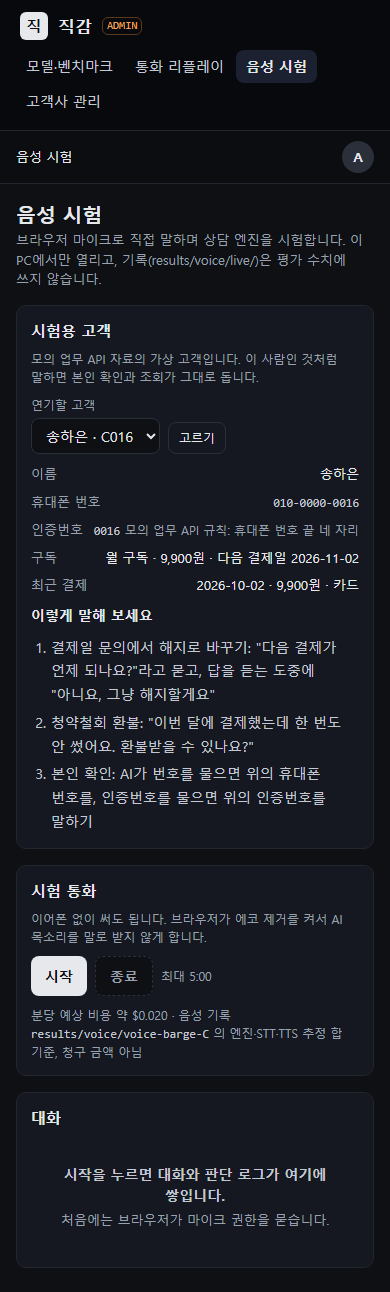
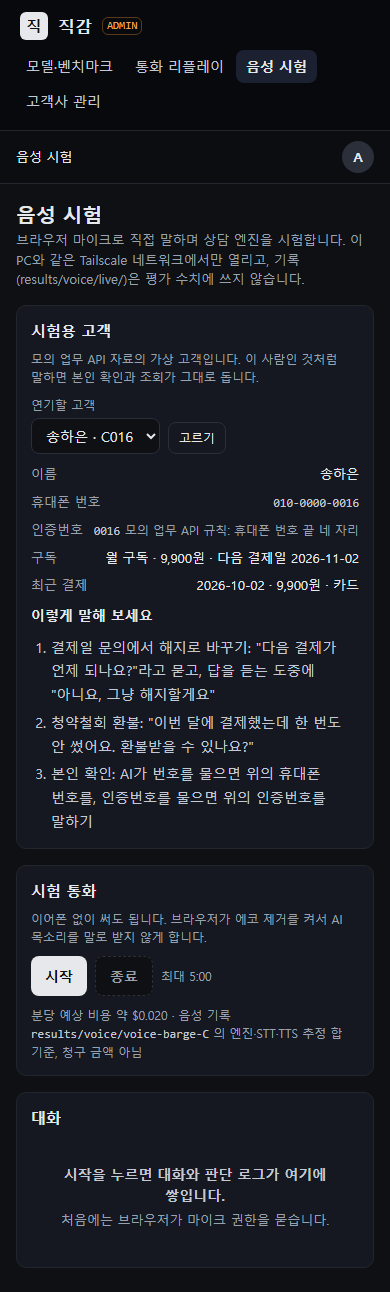
Open the voice test from other devices on the same Tailscale network
- The voice test now accepts this PC and the Tailscale ranges (100.64.0.0/10, fd7a:115c:a1e0::/48) instead of loopback only; behind `tailscale serve` the server checks the real client address the local proxy forwards, and other addresses (LAN, public) still get 403; same-origin POSTs only, as before
- Other PCs open https://<this PC's Tailscale name>/admin/voice-test after `tailscale serve --bg 8100` on this PC (browsers allow the microphone only over HTTPS or on localhost, so plain HTTP on 0.0.0.0 cannot use the mic); docs/voice.md §8 and the README demo note say how
- Checked through the Tailscale HTTPS address from a browser on the same PC (fake microphone): the call connected, reply 4.04 s, recording kept; the origin check passes behind the proxy and rejects other origins; aiortc offers the Tailscale address as an ICE candidate. A call from another PC is not yet checked
- 795 tests and the design harness pass

Changed region(s): [[0.0615, 0.1858, 0.7692, 0.2477], [0.8, 0.1858, 0.8923, 0.2167]]

diff --git a/jikgam/web/app.py b/jikgam/web/app.py
@@ -20,10 +20,11 @@
 - POST /admin/retrieval             검색 val 실행의 비용 확인과 시작
 - GET  /admin/replay[/{run}/{session}][?at=]  통화 리플레이, /admin/replay/{run}/{session}/audio 녹음
 - GET  /admin/tenants[?org=]        고객사 관리
-- GET  /admin/voice-test[?call=&customer=]  음성 시험(이 PC에서만). POST /admin/voice-test/offer(브라우저 WebRTC 제안 → 응답),
+- GET  /admin/voice-test[?call=&customer=]  음성 시험(이 PC와 같은 Tailscale 네트워크에서만). POST /admin/voice-test/offer(브라우저 WebRTC 제안 → 응답),
   POST /admin/voice-test/stop(종료)
 """
 
+import ipaddress
 import time
 from dataclasses import dataclass, field
 from urllib.parse import quote, urlsplit
@@ -262,11 +263,18 @@ def create_app(cfg: WebConfig) -> Starlette:
             return not_found()
         return FileResponse(rec["path"], media_type="audio/wav")
 
+    voice_nets = [ipaddress.ip_network(n) for n in settings.VOICE_TEST_ALLOWED_NETS]
+
     def local_only(request: Request) -> Response | None:
-        """음성 시험은 이 PC에서만 연다. 쓰기 요청은 같은 출처에서 온 것만 받는다(다른 사이트가 통화를 열지 못하게)."""
-        host = request.client.host if request.client else ""
-        if host not in settings.VOICE_TEST_LOCAL_HOSTS:
-            return PlainTextResponse("음성 시험은 이 PC(127.0.0.1)에서만 열 수 있습니다.", status_code=403)
+        """음성 시험은 이 PC와 같은 Tailscale 네트워크의 기기에서만 연다. tailscale serve를 거치면 웹 서버가 실제 접속 기기
+        주소(X-Forwarded-For, 이 PC의 프록시가 보낸 것만 믿는다)를 본다. 쓰기 요청은 같은 출처에서 온 것만 받는다(다른 사이트가
+        통화를 열지 못하게)."""
+        try:
+            addr = ipaddress.ip_address(request.client.host if request.client else "")
+        except ValueError:
+            addr = None
+        if addr is None or not any(addr in n for n in voice_nets):
+            return PlainTextResponse("음성 시험은 이 PC와 같은 Tailscale 네트워크의 기기에서만 열 수 있습니다.", status_code=403)
         origin = request.headers.get("origin")
         if request.method == "POST" and origin and urlsplit(origin).netloc != request.url.netloc:
             return PlainTextResponse("다른 출처의 요청은 받지 않습니다.", status_code=403)

diff --git a/jikgam/web/admin/voicetest.py b/jikgam/web/admin/voicetest.py
@@ -2,7 +2,7 @@
 
 한 화면에 시작·종료, 대화(고객의 미확정 자막이 말하는 도중 바뀌고, AI 답은 재생에 맞춰 글자가 드러난다), 판단 로그(대화 버전,
 판별 결과와 지연, 근거, 업무 API, 끼어들기, 폐기된 답과 사유), 시험자가 연기할 가상 고객 정보가 있다. 통화 중에는 세션 로그를
-읽어 갱신한다. 이 PC(127.0.0.1)에서만 연다. 기록은 평가 수치에 쓰지 않는다.
+읽어 갱신한다. 이 PC와 같은 Tailscale 네트워크의 기기에서만 연다. 기록은 평가 수치에 쓰지 않는다.
 """
 
 from typing import Any
@@ -238,7 +238,7 @@ def page(ctx: Ctx, tests: vt.VoiceTests) -> Any:
     else:
         parts.append(ui.card(ui.empty("시작을 누르면 대화와 판단 로그가 여기에 쌓입니다.",
                                       "처음에는 브라우저가 마이크 권한을 묻습니다."), title="대화", label="대화"))
-    main = ui.stack(ui.page_header("음성 시험", "브라우저 마이크로 직접 말하며 상담 엔진을 시험합니다. 이 PC에서만 열리고, "
+    main = ui.stack(ui.page_header("음성 시험", "브라우저 마이크로 직접 말하며 상담 엔진을 시험합니다. 이 PC와 같은 Tailscale 네트워크에서만 열리고, "
                                                "기록(results/voice/live/)은 평가 수치에 쓰지 않습니다."),
                     ui.split(ui.stack(*parts, gap="lg"), side), gap="lg")
     return shell(ctx, "voice-test", "음성 시험", main)

diff --git a/tests/test_web_voicetest.py b/tests/test_web_voicetest.py
@@ -29,10 +29,12 @@ def client(host="127.0.0.1"):
     return TestClient(create_app(WebConfig(root=ROOT, accounts={"a": A, "t": T}, clock=lambda: 0.0)), client=(host, 50000))
 
 
-def test_only_admins_on_this_pc_can_open_it(monkeypatch):
+def test_only_admins_on_this_pc_or_the_tailnet_can_open_it(monkeypatch):
     monkeypatch.setattr(vt, "bizapi_up", lambda url: False)
     assert client().get("/admin/voice-test", headers=hdr(A)).status_code == 200
-    assert client("10.0.0.7").get("/admin/voice-test", headers=hdr(A)).status_code == 403
+    assert client("100.101.7.9").get("/admin/voice-test", headers=hdr(A)).status_code == 200  # Tailscale 기기
+    for host in ("10.0.0.7", "192.168.0.12", "testclient"):
+        assert client(host).get("/admin/voice-test", headers=hdr(A)).status_code == 403, host
     assert client().get("/admin/voice-test", headers=hdr(T)).status_code == 403
     r = client().post("/admin/voice-test/offer", headers={**hdr(A), "origin": "http://evil.example"}, json={"sdp": "x", "type": "offer"})
     assert r.status_code == 403

diff --git a/jikgam/web/settings.py b/jikgam/web/settings.py
@@ -59,7 +59,8 @@ KNOWLEDGE_STAGE_COUNT = 4
 RETRIEVAL_PIPELINE = "full · snow+RRF · Jev 8"
 
 # 관리 콘솔 음성 시험(/admin/voice-test). 이 PC에서만 연다. 한 번에 한 통화, 최대 시간(초)이 지나면 끝낸다
-VOICE_TEST_LOCAL_HOSTS = ("127.0.0.1", "::1", "localhost")
+# 음성 시험을 여는 접속 주소: 이 PC와 같은 Tailscale 네트워크(tailscale serve로 HTTPS를 붙여 연다, docs/voice.md §8)
+VOICE_TEST_ALLOWED_NETS = ("127.0.0.0/8", "::1/128", "100.64.0.0/10", "fd7a:115c:a1e0::/48")
 VOICE_TEST_MAX_S = 300
 VOICE_TEST_POLICY = "C"          # 엔진 + 조직 기본 판별 백엔드(음성 재생 실행기의 기본과 같다)
 VOICE_TEST_CUSTOMER = "C001"     # 처음 보여 줄 시험용 가상 고객(모의 업무 API 자료)

diff --git a/docs/voice.md b/docs/voice.md
@@ -135,7 +135,8 @@ uv run python -m jikgam.web             # 다른 터미널에서. http://127.0.0
 
 - **전송:** Pipecat 1.12.0의 SmallWebRTC(`pipecat.transports.smallwebrtc`, aiortc). aiortc는 기본 의존성 묶음 `voice-web`에 있다. 브라우저는 에코 제거·잡음 억제·자동 음량을 켠 마이크를 보내고, AI 음성은 같은 연결로 받아 브라우저 스피커로 재생한다(`static/console.js`의 `data-voice-test`).
 - **한도:** 한 번에 한 통화, 최대 5분(`settings.VOICE_TEST_MAX_S`). 종료 버튼, 브라우저 연결 끊김, 한도 중 먼저 오는 것으로 끝난다. 시작 전 화면에 분당 예상 비용(정책 C 음성 기록 `results/voice/voice-barge-C`의 엔진·STT·TTS 추정 합 ÷ STT 연결 시간)을 보인다. 청구 금액은 아니다.
-- **접근:** 이 PC(127.0.0.1)에서 온 요청만 받고, 쓰기 요청은 같은 출처만 받는다. API 키는 `.env`에서만 읽는다.
+- **접근:** 이 PC와 같은 Tailscale 네트워크(`100.64.0.0/10`, `fd7a:115c:a1e0::/48`)의 기기에서 온 요청만 받고(`settings.VOICE_TEST_ALLOWED_NETS`), 쓰기 요청은 같은 출처만 받는다. API 키는 `.env`에서만 읽는다.
+- **다른 PC에서 열기:** 웹 서버는 127.0.0.1에 둔 채 이 PC에서 `tailscale serve --bg 8100`을 실행하고, 같은 tailnet의 PC에서 `https://<이 PC의 Tailscale 이름>/admin/voice-test`를 연다. 브라우저는 HTTPS나 localhost에서만 마이크를 허용하므로 `--host 0.0.0.0`으로 HTTP를 열어서는 마이크를 쓸 수 없다. tailnet에서 Serve와 HTTPS 인증서를 먼저 켜야 한다(인증서를 켜면 PC 이름이 공개 인증서 기록에 남는다). 웹 서버는 이 PC의 프록시가 보낸 실제 접속 주소(`X-Forwarded-For`)로 위 대역을 검사한다. 끄려면 `tailscale serve --https=443 off`.
 - **기록:** `results/voice/live/<시험 id>/`에 세션 로그(`.jsonl`, 기존 형식)와 스테레오 녹음(`.wav`, 왼쪽 고객·오른쪽 AI)을 남긴다. git에 넣지 않고 평가 수치에 쓰지 않는다. 끝난 통화는 통화 리플레이 목록에 "음성 시험 · <id>"로 나오고 녹음과 함께 열린다.
 - **녹음:** STT가 입력 음성을 다음 단계로 넘기지 않아(`audio_passthrough=False`) 출력 뒤 한 곳에서는 고객 음성을 받을 수 없다. 입력 전송 바로 뒤와 출력 전송 바로 뒤에 프레임을 그대로 넘기는 탭을 두고(`after_input`, `after_output`), 엔진 시계로 두 채널 위치를 맞춘다(`jikgam/voice/recorder.py`). 녹음 시작 시각은 `voice.recording`의 `t0_ms`다.
 - **말 시작 시점:** 연결 뒤 음성 엔진이 준비될 때까지(이 PC의 두 번 시험에서 2.55초, 2.73초) 들어온 말은 받지 못한다. 화면 상태가 '통화 중'으로 바뀐 뒤 말한다.
@@ -145,3 +146,5 @@ uv run python -m jikgam.web             # 다른 터미널에서. http://127.0.0
 - 첫 응답(첫 고객 말 끝 → AI 음성 시작): 4.13초. 확정 자막 1.12초, 판별 0.20초, 생성 1.88초, TTS 첫 소리 0.93초. 나머지 세 응답은 3.94~4.46초.
 - 끼어들기: AI가 말하는 중에 고객이 다음 말을 시작한 1회, VAD 시작과 같은 시각(0.1ms 뒤)에 끼어들기로 판정해 재생을 멈췄다(AI 음성 3.9초 재생). 그 말("아 그냥 해지할게요")로 요청이 결제 문의에서 해지로 바뀌어 이전 답이 무효가 됐고, 해지 안내로 이어졌다.
 - 녹음 71.8초, 두 채널의 말 구간이 VAD·재생 이벤트 시각과 맞았다. 리플레이와 녹음 파일 응답 200.
+
+Tailscale을 거친 확인(2026-10-19, `20261019-081349`): `tailscale serve`의 HTTPS 주소로 연 같은 PC의 브라우저(가짜 마이크)에서 통화가 이어졌다(응답 4.04초, 녹음 15.6초). 프록시를 거쳐도 같은 출처 검사는 통과하고 다른 출처는 403이었다. 서버(aiortc)는 Tailscale 주소를 연결 후보로 낸다. 다른 PC에서 실제로 말해 본 연결은 아직 확인하지 않았다.

diff --git a/README.md b/README.md
@@ -81,7 +81,7 @@
   - Jev: `TYPESAFE_API_KEY`
 - **지식·정책 화면:** 표준약관 두 개의 원문과 구간 정보를 읽는다. 이 자료는 다시 배포해도 되는지 확인하지 못해 저장소 밖(`data/v2/local/`)에 둔다. 새로 받은 저장소에서는 [ADR 0023](docs/adr/0023-v2-원본-문서와-텍스트-추출.md)의 절차(`scripts/v2_fetch_sources.py`)로 받아 처리해야 이 화면이 열린다.
 - **학습한 2B로 분할하기:** WSL2에서 판별 서버를 띄워야 선택할 수 있다(`scripts/run_v2_test.sh` 머리말).
-- **음성 시험(관리 콘솔 → 음성 시험):** 브라우저 마이크로 직접 말하며 엔진을 시험한다. 다른 터미널에서 모의 업무 API(`cd bizapi && go run ./cmd/bizapi`)를 먼저 띄우고, 이 PC의 브라우저에서 연다. `.env`에 `GCP_API_KEY`(Gemini STT·생성·TTS)와 `TYPESAFE_API_KEY`(Jev)가 있어야 하고 유료 호출이 든다(화면에 분당 예상 비용). 기록은 `results/voice/live/`에 남고 평가 수치에 쓰지 않는다([docs/voice.md §8](docs/voice.md)).
+- **음성 시험(관리 콘솔 → 음성 시험):** 브라우저 마이크로 직접 말하며 엔진을 시험한다. 다른 터미널에서 모의 업무 API(`cd bizapi && go run ./cmd/bizapi`)를 먼저 띄우고, 이 PC의 브라우저에서 연다. 같은 Tailscale 네트워크의 다른 PC에서는 이 PC에서 `tailscale serve --bg 8100`을 실행한 뒤 `https://<이 PC의 Tailscale 이름>/admin/voice-test`로 연다(마이크는 HTTPS에서만 열린다). `.env`에 `GCP_API_KEY`(Gemini STT·생성·TTS)와 `TYPESAFE_API_KEY`(Jev)가 있어야 하고 유료 호출이 든다(화면에 분당 예상 비용). 기록은 `results/voice/live/`에 남고 평가 수치에 쓰지 않는다([docs/voice.md §8](docs/voice.md)).
 
 ## 그 밖의 실행
 

diff --git a/docs/design/screens/changes.md b/docs/design/screens/changes.md
@@ -2,7 +2,7 @@
 
 `scripts/ui_check.py`가 마지막으로 찍은 결과다. 바뀐 화소는 직전 스크린샷과 비교한 비율이다(처음 찍은 화면은 -, 크기가 바뀌면 100%).
 
-찍은 시각: 2026-10-19 07:45
+찍은 시각: 2026-10-19 08:17
 
 | 화면 | 이름 | 폭 | 바뀐 화소 | axe 심각 이상 | 금지어 | 키보드 흐름 |
 |---|---|---|---|---|---|---|
@@ -38,7 +38,7 @@
 | admin-replay | 통화 리플레이(s20 음성 2회차) | 390px | 0.00% | 0 | 해당 없음 | - |
 | admin-replay-barge | 통화 리플레이(1단계 끼어들기 재생) | 1440px | 0.00% | 0 | 해당 없음 | - |
 | admin-replay-barge | 통화 리플레이(1단계 끼어들기 재생) | 390px | 0.00% | 0 | 해당 없음 | - |
-| admin-voice-test | 음성 시험(시작 전) | 1440px | 0.00% | 0 | 해당 없음 | 통과 |
-| admin-voice-test | 음성 시험(시작 전) | 390px | 0.00% | 0 | 해당 없음 | - |
-| admin-voice-test-call | 음성 시험(끝난 시험 통화 · s20 음성 기록 복사) | 1440px | 0.00% | 0 | 해당 없음 | - |
-| admin-voice-test-call | 음성 시험(끝난 시험 통화 · s20 음성 기록 복사) | 390px | 0.00% | 0 | 해당 없음 | - |
+| admin-voice-test | 음성 시험(시작 전) | 1440px | 0.26% | 0 | 해당 없음 | 통과 |
+| admin-voice-test | 음성 시험(시작 전) | 390px | 0.76% | 0 | 해당 없음 | - |
+| admin-voice-test-call | 음성 시험(끝난 시험 통화 · s20 음성 기록 복사) | 1440px | 0.09% | 0 | 해당 없음 | - |
+| admin-voice-test-call | 음성 시험(끝난 시험 통화 · s20 음성 기록 복사) | 390px | 0.14% | 0 | 해당 없음 | - |

diff --git a/PROGRESS.md b/PROGRESS.md
@@ -1070,6 +1070,8 @@ val에서 고른 값(답이 있는 val 77개, 근거 항목 118개의 근거 재
 
 확인: 가짜 마이크(s20 고객 TTS 녹음)로 한 시험 통화에서 첫 응답 4.13초, 끼어들기 1회가 재생을 멈췄다(`docs/voice.md` §8). 사람 목소리와 스피커 에코 제거는 확인하지 못했다.
 
+같은 날 사용자 지시로 같은 Tailscale 네트워크의 다른 PC에서도 열게 바꿨다. 허용 주소를 이 PC와 Tailscale 대역으로 넓히고, 다른 PC에서는 `tailscale serve`로 HTTPS를 붙여 연다(브라우저는 HTTPS에서만 마이크를 허용한다). 같은 PC에서 Tailscale 주소로 통화가 이어지는 것까지 확인했고, 다른 PC에서의 연결은 아직 확인하지 않았다.
+
 ## 다음 할 일
 
 이 목록은 사용자가 지시한 것만 진행한다(2026-10-18 사용자 지시). 새 실험과 새 기능은 멈춘 상태다.
